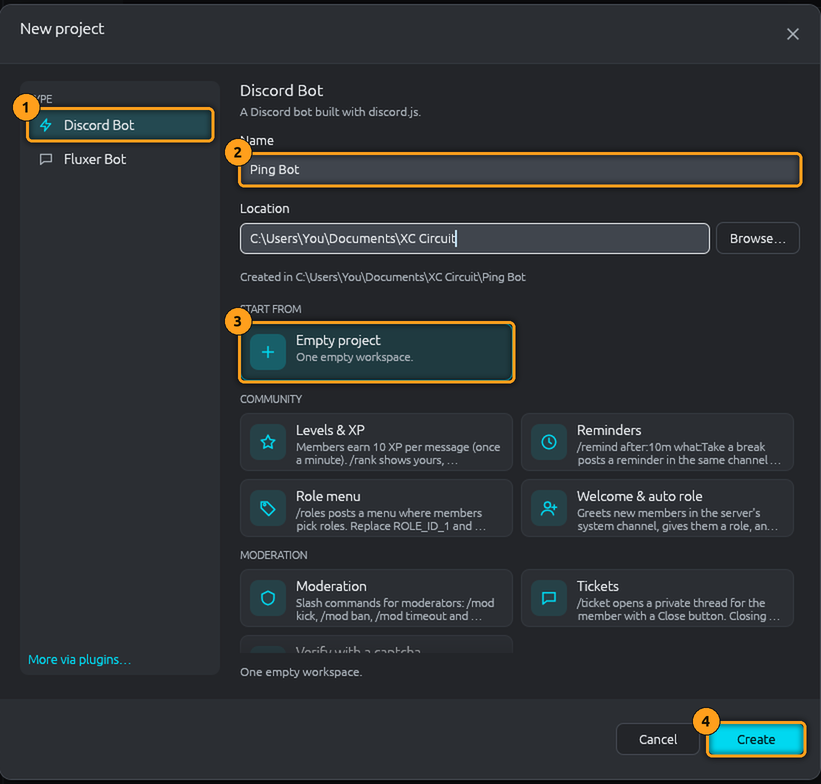
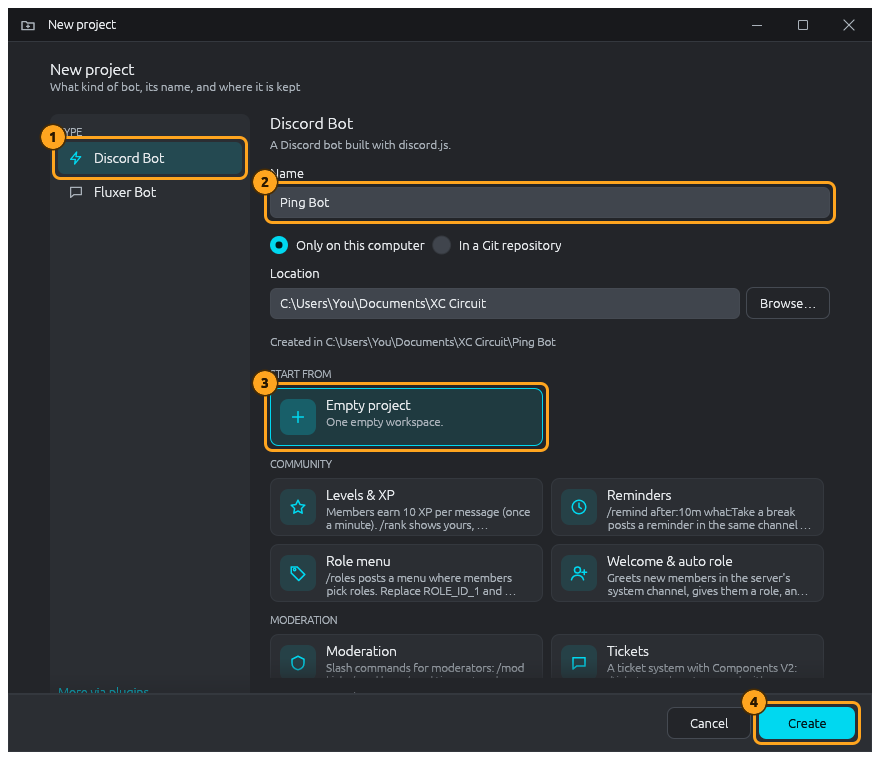
0.3.0 in the changelog; the docs' pictures made by a test
- The changelog's Unreleased is 0.3.0, with a short summary on top
  (the release takes its notes from that section).
- hero.png, new-project.png, run.png and plugins-menu.png showed the
  window as it was. They are made again, by a test that draws the
  window without a screen and marks what a tutorial points at:
  cargo test -p circuit-editor docs_screenshots -- --ignored
  The other eight show parts that didn't change.
- New project's content is apart from its window, so the picture can
  draw it at the window's own size.

Changed region(s): [[0.0, 0.0, 1.0, 1.0], [0.6395, 0.7263, 0.944, 0.7868]]

diff --git a/crates/circuit-editor/src/app/shots.rs b/crates/circuit-editor/src/app/shots.rs
@@ -1,0 +1,215 @@
+//! The pictures of the window in the README and the tutorials, made from
+//! the app itself: the Ping Bot tutorial's project is opened in a window
+//! that is drawn without a screen, and what a tutorial points at gets a
+//! numbered mark. Run by hand after the window changes, then look at them:
+//!
+//! ```text
+//! cargo test -p circuit-editor docs_screenshots -- --ignored
+//! ```
+//!
+//! They are written to `docs/public/screens/`. It needs graphics (a card,
+//! or a software renderer such as WARP or lavapipe).
+
+use std::path::{Path, PathBuf};
+
+use circuit_core::Project;
+use eframe::egui;
+use egui_kittest::Harness;
+use egui_kittest::kittest::Queryable;
+
+use super::*;
+
+fn plugins_dir() -> PathBuf {
+    Path::new(env!("CARGO_MANIFEST_DIR")).join("../../plugins")
+}
+
+fn screens_dir() -> PathBuf {
+    Path::new(env!("CARGO_MANIFEST_DIR")).join("../../docs/public/screens")
+}
+
+/// The tutorials' project: a /ping and a /count command, each in its workspace.
+fn ping_bot(dir: &Path) {
+    let _ = std::fs::remove_dir_all(dir);
+    let mut p = Project::create(dir, "Ping Bot", "discord-bot").unwrap();
+    let first = p.workspaces.keys().next().cloned().unwrap();
+    p.workspaces.get_mut(&first).unwrap().name = "Start here".into();
+    let count: circuit_core::Workspace = serde_json::from_value(serde_json::json!({
+        "name": "Count command",
+        "nodes": {
+            "1": { "block": "discord.on_slash_command@2", "at": [60, 150], "values": { "command": "count" } },
+            "2": { "block": "core.increase_stored@1", "at": [380, 150], "values": { "scope": "user", "key": "counts" } },
+            "3": { "block": "discord.send_message@3", "at": [700, 150], "values": { "mode": "reply", "text": "You've counted ${value} times, ${user.username}!", "private": false } },
+        },
+        "links": ["1.next > 2.in", "2.next > 3.in", "1.interaction > 3.interaction", "1.user > 2.target", "2.value > 3.value"],
+        "notes": { "n1": { "title": "/count", "text": "Counts how often each member used the command and answers with the number. Stored per user, so it survives restarts.", "rect": [30, 50, 1010, 520], "color": "#3DFF6E" } },
+    }))
+    .unwrap();
+    let ping: circuit_core::Workspace = serde_json::from_value(serde_json::json!({
+        "name": "Ping command",
+        "nodes": {
+            "1": { "block": "discord.on_slash_command@2", "at": [60, 80], "values": { "command": "ping" } },
+            "2": { "block": "discord.send_message@3", "at": [380, 80], "values": { "mode": "reply", "text": "Pong! ${Date.now() - interaction.createdTimestamp} ms", "private": false } },
+        },
+        "links": ["1.next > 2.in", "1.interaction > 2.interaction"],
+    }))
+    .unwrap();
+    p.workspaces.insert("count-command".into(), count);
+    p.workspaces.insert("ping-command".into(), ping);
+    p.meta.data.insert(
+        crate::builders::slash::DATA_KEY.into(),
+        serde_json::json!([
+            { "name": "ping", "description": "Checks that the bot answers", "contexts": ["guild"], "installs": ["guild"], "options": [] },
+            { "name": "count", "description": "Counts how often you used it", "contexts": ["guild"], "installs": ["guild"], "options": [] },
+        ]),
+    );
+    p.save().unwrap();
+}
+
+/// The tutorial's own plugin (Your first editor plugin), for the Plugins menu.
+fn block_counter(plugins: &Path) {
+    let dir = plugins.join("block.counter");
+    std::fs::create_dir_all(&dir).unwrap();
+    std::fs::write(dir.join("plugin.toml"), "id = \"block.counter\"\nname = \"Block Counter\"\nversion = \"1.0.0\"\n\n[editor]\nscript = \"editor.js\"\n").unwrap();
+    std::fs::write(
+        dir.join("editor.js"),
+        "xc.command({ id: 'counter.total', title: 'Count all blocks', run() { xc.log(`${xc.project().name} has ${xc.blocks().length} blocks`); } });\nxc.panel({ id: 'counts', title: 'Block Counter', render(ui) { ui.heading('Blocks per workspace'); } });\n",
+    )
+    .unwrap();
+}
+
+/// The app's window, 1440 by 900, with the tutorial's project open and its
+/// Count command in view.
+fn window(name: &str) -> Harness<'static, CircuitApp> {
+    let tmp = std::env::temp_dir().join(format!("xc-shots-{name}-{}", std::process::id()));
+    let _ = std::fs::remove_dir_all(&tmp);
+    let own_plugins = tmp.join("plugins");
+    block_counter(&own_plugins);
+    let project = tmp.join("Ping Bot");
+    ping_bot(&project);
+    let mut ed = Editor::new(vec![plugins_dir(), own_plugins], Some("graphite")).unwrap();
+    ed.prefs.language = crate::i18n::ENGLISH.into();
+    ed.prefs.setup_done = true;
+    ed.apply_language();
+    ed.restyle();
+    ed.open_project(&project);
+    let bundled = Some(plugins_dir());
+    let mut h = Harness::builder().with_size(egui::vec2(1440.0, 900.0)).with_pixels_per_point(1.0).wgpu().build_eframe(move |cc| {
+        egui_extras::install_image_loaders(&cc.egui_ctx);
+        let _ = crate::ui::fonts::install_with(&cc.egui_ctx, None);
+        ed.theme.apply(&cc.egui_ctx);
+        let mut app = CircuitApp::with_editor(cc, ed, default_layout(), bundled);
+        // Nothing of the first frames is news for the corner.
+        app.ed.actions.push(Action::OpenWorkspace("count-command".into()));
+        app
+    });
+    h.run_steps(12);
+    h
+}
+
+/// Draws the window and writes `crop` of it (all of it without) as `name`.png.
+fn save(h: &mut Harness<'_, CircuitApp>, name: &str, crop: Option<egui::Rect>) {
+    h.run_steps(4);
+    let image = h.render().expect("the window drawn (this needs graphics, see the top of this file)");
+    let image = match crop {
+        Some(r) => {
+            let (x, y) = (r.left().max(0.0) as u32, r.top().max(0.0) as u32);
+            let (w, hgt) = ((r.width() as u32).min(image.width() - x), (r.height() as u32).min(image.height() - y));
+            image::imageops::crop_imm(&image, x, y, w, hgt).to_image()
+        }
+        None => image,
+    };
+    let file = screens_dir().join(format!("{name}.png"));
+    image.save(&file).unwrap();
+    eprintln!("wrote {} ({}×{})", file.display(), image.width(), image.height());
+}
+
+/// Where the control with this name is; of several, the one `pick` likes best (the smallest it gives).
+fn rect_of(h: &Harness<'_, CircuitApp>, label: &str, pick: impl Fn(egui::Rect) -> f32) -> egui::Rect {
+    let mut all: Vec<egui::Rect> = h.query_all_by_label(label).map(|n| n.rect()).collect();
+    assert!(!all.is_empty(), "nothing is named {label:?}");
+    all.sort_by(|a, b| pick(*a).total_cmp(&pick(*b)));
+    all[0]
+}
+
+#[test]
+#[ignore]
+fn docs_screenshots() {
+    // The whole window, for the README.
+    let mut h = window("hero");
+    save(&mut h, "hero", None);
+
+    // The Run button.
+    let run = h.state().ed.ui_rects.get("run").or_else(|| h.state().ed.ui_rects_before.get("run")).copied().expect("the Run button");
+    h.state_mut().shot_marks = vec![(run, 1)];
+    save(&mut h, "run", Some(egui::Rect::from_min_size(egui::pos2(1440.0 - 680.0, 0.0), egui::vec2(680.0, 110.0))));
+    h.state_mut().shot_marks.clear();
+
+    // The Plugins menu, with the tutorial's plugin in it.
+    let menu = rect_of(&h, "Plugins", |r| r.top());
+    h.query_all_by_label("Plugins").find(|n| n.rect() == menu).unwrap().click();
+    h.run_steps(6);
+    let command = rect_of(&h, "Count all blocks", |r| r.top());
+    let panel = rect_of(&h, "Block Counter panel", |r| r.top());
+    h.state_mut().shot_marks = vec![(command, 1), (panel, 2)];
+    save(&mut h, "plugins-menu", Some(egui::Rect::from_min_size(egui::pos2((menu.left() - 110.0).max(0.0), 0.0), egui::vec2(500.0, 260.0))));
+    h.state_mut().shot_marks.clear();
+
+    new_project();
+}
+
+/// Draws the marks over a picture's contents: an orange frame around what
+/// a tutorial points at, and its number in a circle at the frame's corner.
+pub(super) fn marks(ctx: &egui::Context, list: &[(egui::Rect, u8)]) {
+    let mark = egui::Color32::from_rgb(0xFF, 0xA5, 0x1F);
+    let painter = ctx.layer_painter(egui::LayerId::new(egui::Order::Debug, egui::Id::unique("shot-marks")));
+    for (rect, number) in list {
+        let frame = rect.expand(3.0);
+        painter.rect_stroke(frame, 5.0, egui::Stroke::new(3.0, mark), egui::StrokeKind::Outside);
+        // The number at the frame's top left corner; at the very top of the
+        // picture, where that would be cut off, at its bottom left one.
+        let at = if frame.top() < 16.0 { frame.left_bottom() + egui::vec2(-2.0, 2.0) } else { frame.left_top() + egui::vec2(-2.0, -2.0) };
+        painter.circle_filled(at, 12.0, mark);
+        painter.circle_stroke(at, 12.0, egui::Stroke::new(1.5, egui::Color32::from_rgb(0x4A, 0x2C, 0x00)));
+        painter.text(at, egui::Align2::CENTER_CENTER, number.to_string(), crate::ui::fonts::bold(14.0), egui::Color32::from_rgb(0x2A, 0x18, 0x00));
+    }
+}
+
+/// The New Project window as it opens beside the app's: its own title bar,
+/// and in it what the tutorial fills in.
+fn new_project() {
+    use crate::pages::new_project::{NewProject, WINDOW, content, templates};
+    let ed = Editor::new(vec![plugins_dir()], Some("graphite")).unwrap();
+    let theme = ed.theme.clone();
+    let examples = Path::new(env!("CARGO_MANIFEST_DIR")).join("../../examples");
+    let starters = templates(Some(&examples), &ed.reg);
+    let mut state = NewProject::new(&ed.reg, PathBuf::from(r"C:\Users\You\Documents\XC Circuit"));
+    state.name = "Ping Bot".into();
+    let icon = ed.reg.icons.get("folder-plus").cloned();
+    let shown: std::rc::Rc<std::cell::RefCell<Vec<(egui::Rect, u8)>>> = Default::default();
+    let to_draw = shown.clone();
+    let mut ready = false;
+    let mut h = Harness::builder().with_size(WINDOW).with_pixels_per_point(1.0).wgpu().build_ui(move |ui| {
+        if !ready {
+            ready = true;
+            egui_extras::install_image_loaders(ui.ctx());
+            let _ = crate::ui::fonts::install_with(ui.ctx(), None);
+            theme.apply(ui.ctx());
+        }
+        state.as_if_the_folder_is_free();
+        crate::ui::dialog::own_window_contents(ui, &theme, "New project", icon.as_deref(), false, |ui| {
+            content(ui, &theme, &mut state, &ed.reg, &starters);
+        });
+        marks(ui.ctx(), &to_draw.borrow());
+    });
+    h.run_steps(8);
+    let create = h.get_by_label("Create").rect();
+    let kind = h.query_all_by_label("Discord Bot").map(|n| n.rect()).min_by(|a, b| a.left().total_cmp(&b.left())).expect("the kinds of project");
+    let empty = h.query_all_by_label("Empty project").map(|n| n.rect()).next().expect("the empty starter");
+    let name = h.query_all_by_label("Name").map(|n| n.rect()).max_by(|a, b| a.width().total_cmp(&b.width())).expect("the name's field");
+    *shown.borrow_mut() = vec![(kind, 1), (name, 2), (empty, 3), (create, 4)];
+    h.run_steps(4);
+    let image = h.render().expect("the window drawn");
+    let file = screens_dir().join("new-project.png");
+    image.save(&file).unwrap();
+    eprintln!("wrote {}", file.display());
+}

diff --git a/crates/circuit-editor/src/ui/dialog.rs b/crates/circuit-editor/src/ui/dialog.rs
@@ -70,6 +70,35 @@ pub struct Own<'a> {
     pub system_frame: bool,
 }
 
+/// What fills a window of its own: the app's title bar with `title` and the
+/// window's buttons (not with the system's frame, `framed`), and under it
+/// what `add` draws.
+pub fn own_window_contents(ui: &mut Ui, theme: &Theme, title: &str, icon: Option<&Path>, framed: bool, add: impl FnOnce(&mut Ui)) {
+    let all = ui.max_rect();
+    ui.painter().rect_filled(all, 0.0, theme.panel);
+    let mut body = all;
+    if !framed {
+        let bar = egui::Rect::from_min_size(all.min, vec2(all.width(), crate::app::titlebar::HEIGHT));
+        body.min.y = bar.bottom();
+        ui.painter().rect_filled(bar, 0.0, theme.frame);
+        ui.painter().hline(bar.x_range(), bar.bottom() - 0.5, Stroke::new(1.0, theme.line));
+        let mut row = ui.new_child(egui::UiBuilder::new().id_salt("own-window-bar").max_rect(bar).layout(Layout::left_to_right(Align::Center)));
+        crate::app::titlebar::drag_region(&mut row, bar);
+        row.add_space(12.0);
+        if let Some(icon) = icon {
+            row.add(egui::Image::from_uri(file_uri(icon)).tint(theme.text_muted).fit_to_exact_size(vec2(16.0, 16.0)));
+            row.add_space(4.0);
+        }
+        row.add(egui::Label::new(RichText::new(title).size(12.5).color(theme.text)).selectable(false));
+        let mut right = ui.new_child(egui::UiBuilder::new().id_salt("own-window-buttons").max_rect(bar).layout(Layout::right_to_left(Align::Center)));
+        right.spacing_mut().item_spacing.x = 0.0;
+        crate::app::titlebar::window_buttons(&mut right, theme);
+    }
+    let mut inner = ui.new_child(egui::UiBuilder::new().id_salt("own-window-body").max_rect(body).layout(Layout::top_down(Align::Min)));
+    inner.set_clip_rect(body);
+    add(&mut inner);
+}
+
 /// A window of its own, beside the app's: for what is set up once and
 /// closed again. `add` draws what is under its title bar. Returns true
 /// when it was asked to close.
@@ -85,30 +114,8 @@ pub fn own_window(ctx: &egui::Context, theme: &Theme, own: Own, add: impl FnOnce
         .with_decorations(framed);
     let mut add = Some(add);
     ctx.show_viewport_immediate(egui::ViewportId::from_hash_of(("own-window", key)), builder, |ui, _| {
-        let all = ui.max_rect();
-        ui.painter().rect_filled(all, 0.0, theme.panel);
-        let mut body = all;
-        if !framed {
-            let bar = egui::Rect::from_min_size(all.min, vec2(all.width(), crate::app::titlebar::HEIGHT));
-            body.min.y = bar.bottom();
-            ui.painter().rect_filled(bar, 0.0, theme.frame);
-            ui.painter().hline(bar.x_range(), bar.bottom() - 0.5, Stroke::new(1.0, theme.line));
-            let mut row = ui.new_child(egui::UiBuilder::new().id_salt("own-window-bar").max_rect(bar).layout(Layout::left_to_right(Align::Center)));
-            crate::app::titlebar::drag_region(&mut row, bar);
-            row.add_space(12.0);
-            if let Some(icon) = icon {
-                row.add(egui::Image::from_uri(file_uri(icon)).tint(theme.text_muted).fit_to_exact_size(vec2(16.0, 16.0)));
-                row.add_space(4.0);
-            }
-            row.add(egui::Label::new(RichText::new(title).size(12.5).color(theme.text)).selectable(false));
-            let mut right = ui.new_child(egui::UiBuilder::new().id_salt("own-window-buttons").max_rect(bar).layout(Layout::right_to_left(Align::Center)));
-            right.spacing_mut().item_spacing.x = 0.0;
-            crate::app::titlebar::window_buttons(&mut right, theme);
-        }
-        let mut inner = ui.new_child(egui::UiBuilder::new().id_salt("own-window-body").max_rect(body).layout(Layout::top_down(Align::Min)));
-        inner.set_clip_rect(body);
         if let Some(add) = add.take() {
-            add(&mut inner);
+            own_window_contents(ui, theme, title, icon, framed, add);
         }
         if !framed {
             crate::app::titlebar::frame_edges(ui.ctx(), theme);

diff --git a/crates/circuit-editor/src/pages/new_project.rs b/crates/circuit-editor/src/pages/new_project.rs
@@ -125,6 +125,14 @@ impl NewProject {
     /// [`Self::target`], looked up on the disk when the name or the location
     /// changes and about once a second, not for every frame: a location on a
     /// slow or missing network drive would hold the window up while typing.
+    /// For the docs' picture of the window: the folder shown there (someone
+    /// else's Documents) counts as free, as it would be on their computer.
+    #[cfg(test)]
+    pub fn as_if_the_folder_is_free(&mut self) {
+        let target = PathBuf::from(&self.location).join(&self.name);
+        self.checked = Some((self.name.clone(), self.location.clone(), std::time::Instant::now(), Ok(target)));
+    }
+
     fn target_now(&mut self) -> Result<PathBuf, String> {
         if let Some((name, location, at, found)) = &self.checked
             && *name == self.name
@@ -158,10 +166,24 @@ const HEIGHT: f32 = 600.0;
 /// the right. `system_frame`: with the system's title bar.
 pub fn show(ctx: &egui::Context, theme: &Theme, state: &mut NewProject, reg: &Registry, templates: &[Template], system_frame: bool) -> Option<Outcome> {
     let mut outcome = None;
-    let target = state.target_now();
-    let place = *state.place.get_or_insert_with(|| dialog::centered_now(ctx, egui::vec2(880.0, 760.0)));
+    let place = *state.place.get_or_insert_with(|| dialog::centered_now(ctx, WINDOW));
     let icon = reg.icons.get("folder-plus").cloned();
-    let close = dialog::own_window(ctx, theme, dialog::Own { key: "new-project", title: t!("New project"), icon: icon.as_deref(), place, system_frame }, |ui| dialog::tab(
+    let close = dialog::own_window(ctx, theme, dialog::Own { key: "new-project", title: t!("New project"), icon: icon.as_deref(), place, system_frame }, |ui| outcome = content(ui, theme, state, reg, templates));
+    if close && outcome.is_none() {
+        outcome = Some(Outcome::Cancel);
+    }
+    outcome
+}
+
+/// How big the New Project window starts.
+pub const WINDOW: egui::Vec2 = egui::vec2(880.0, 760.0);
+
+/// What is in the New Project window, under its title bar: the kinds of
+/// project, the form, and Create and Cancel at the bottom.
+pub fn content(ui: &mut Ui, theme: &Theme, state: &mut NewProject, reg: &Registry, templates: &[Template]) -> Option<Outcome> {
+    let mut outcome = None;
+    let target = state.target_now();
+    dialog::tab(
         ui,
         theme,
         dialog::Spec { id: "new-project", title: t!("New project"), subtitle: Some(t!("What kind of bot, its name, and where it is kept")), icon: None, width: 820.0 },
@@ -193,10 +215,7 @@ pub fn show(ctx: &egui::Context, theme: &Theme, state: &mut NewProject, reg: &Re
                 }
             }
         },
-    ));
-    if close && outcome.is_none() {
-        outcome = Some(Outcome::Cancel);
-    }
+    );
     outcome
 }
 

diff --git a/crates/circuit-editor/src/app/mod.rs b/crates/circuit-editor/src/app/mod.rs
@@ -43,6 +43,8 @@ mod start;
 mod windows;
 #[cfg(test)]
 mod a11y;
+#[cfg(test)]
+mod shots;
 mod memory;
 #[cfg(test)]
 mod tests;
@@ -244,6 +246,9 @@ pub struct CircuitApp {
     close_tab: bool,
     /// The tabs closed lately, the last one last: Ctrl+Shift+T brings them back.
     closed_tabs: Vec<closed::Closed>,
+    /// For the docs' pictures (see `shots`): what gets a numbered mark.
+    #[cfg(test)]
+    shot_marks: Vec<(egui::Rect, u8)>,
     /// Whether the window was last given the start window's shape (not yet, at first).
     window_shaped: Option<bool>,
     /// For saving what egui remembers (see `memory`).
@@ -444,6 +449,8 @@ impl CircuitApp {
             side_folded: None,
             close_tab: false,
             closed_tabs: Vec::new(),
+            #[cfg(test)]
+            shot_marks: Vec::new(),
             window_shaped: None,
             settings: Default::default(),
             restore: Default::default(),
@@ -934,6 +941,9 @@ impl eframe::App for CircuitApp {
         if !self.ed.prefs.system_titlebar && !start {
             crate::app::titlebar::frame_edges(&ctx, &theme);
         }
+        // The docs' pictures: numbered marks on what a tutorial points at.
+        #[cfg(test)]
+        shots::marks(&ctx, &self.shot_marks);
 
         // Record an undo step once an edit has settled.
         // Only looked for after an edit or input (not the pointer just moving),

diff --git a/CHANGELOG.md b/CHANGELOG.md
@@ -2,9 +2,18 @@
 
 All notable changes to XC™ Circuit. Versions follow [semantic versioning](https://semver.org); while in Early Access (0.x), a new minor version may change how things work. Projects are upgraded automatically when they open.
 
-## Unreleased
+## 0.3.0
+
+The biggest release so far: your project can live in a Git repository and on a server of your own, several people can work in it at the same time, and the window is laid out anew.
+
+- **Git, built in** (Share › Git…): keep a project on GitHub, GitLab or anywhere that speaks Git, on all your computers and with others. Store, Fetch, and what both sides changed is put together block by block.
+- **The XC Circuit Host**: a small server you run yourself. It keeps your projects, carries your secrets to your other devices (sealed on the devices), relays live sessions and can run your bot.
+- **Live sessions**: work in one project together, live. One hosts, the others join with an invitation and may change what the host lets them.
+- **A new window**: a start window for your projects, real windows for setting things up, a side bar with views for Git, Search and Plugins, notifications, and menus sorted by what they are for.
+- **Projects have a new layout** on disk, made for sharing. They are converted when opened; **an older XC Circuit can't open them afterwards**, so update every computer you use a project on.
 
 ### Added
+- **The docs' pictures are made by the app itself**: the README's picture of the window and the tutorials' pictures of New project, Run and the Plugins menu are new, and come from a test that draws the window without a screen (`cargo test -p circuit-editor docs_screenshots -- --ignored`), so they can be made again whenever the window changes.
 - **More for AI agents**: `get_git` and `git_action` (what waits in the project's repository, Store with a few words on what changed, Fetch), `set_workspace` (rename a workspace, move it to a folder, turn it off or on), `delete_workspace` (asks you in the app first), `undo` (and redo) and `notify_user` (a notification in the app). The tools for the bot's remote are called `get_remote` and `remote_action` now, as the interface says Remote; `get_server` and `server_action` still work. For plugins: `xc.remote()` (with `xc.server()` kept), `xc.git()` and `xc.deleteWorkspace(key)`.
 - **Read From Message** (Discord): one block that takes a thing out of a message, picked step by step. First what to read from: its text, an embed, its buttons and menus, its layout (Components V2), an attachment, or who it mentions. Then the steps that belong to that: which embed (first to tenth, last, or every one) and its title, description, colour, author, footer, picture, a field by name or number, or all its text; which row and which button or menu, and its label, custom id, link, emoji or a menu's options; a layout piece by piece: where to look (the whole message or one container), what kind of piece (a text, section, container, media gallery, picture, button, select menu or file, or all its text at once), which one (first to tenth, last, or every one), and what of it (a section's texts and the button or picture beside it; a container's colour, text and number of pieces; a gallery's pictures; a button's label, custom id, link, emoji and style; a menu's placeholder, options and what it picks; a file's URL and name); which attachment and its URL, name, size or type. A last step on any text gives it as it is, or only the user, role or channel mentions in it, its links, numbers, custom emoji, lines or words, or what matches a pattern (the first match, every match, or the first group). The steps that don't belong to what you picked are hidden, the result has the right type for the next block, and **Found** says whether the message had that part.
 - **Ctrl+Shift+T brings back the tab closed last**, as in a browser: a workspace, a page or a panel comes back where it was among its area's tabs, and a builder (or the bot's settings) with what you were editing in it, so closing one by mistake loses nothing. Press it again for the one before; the last 25 are remembered until the project closes. Also File › Reopen Closed Tab, and it can be changed in Settings › Shortcuts.
